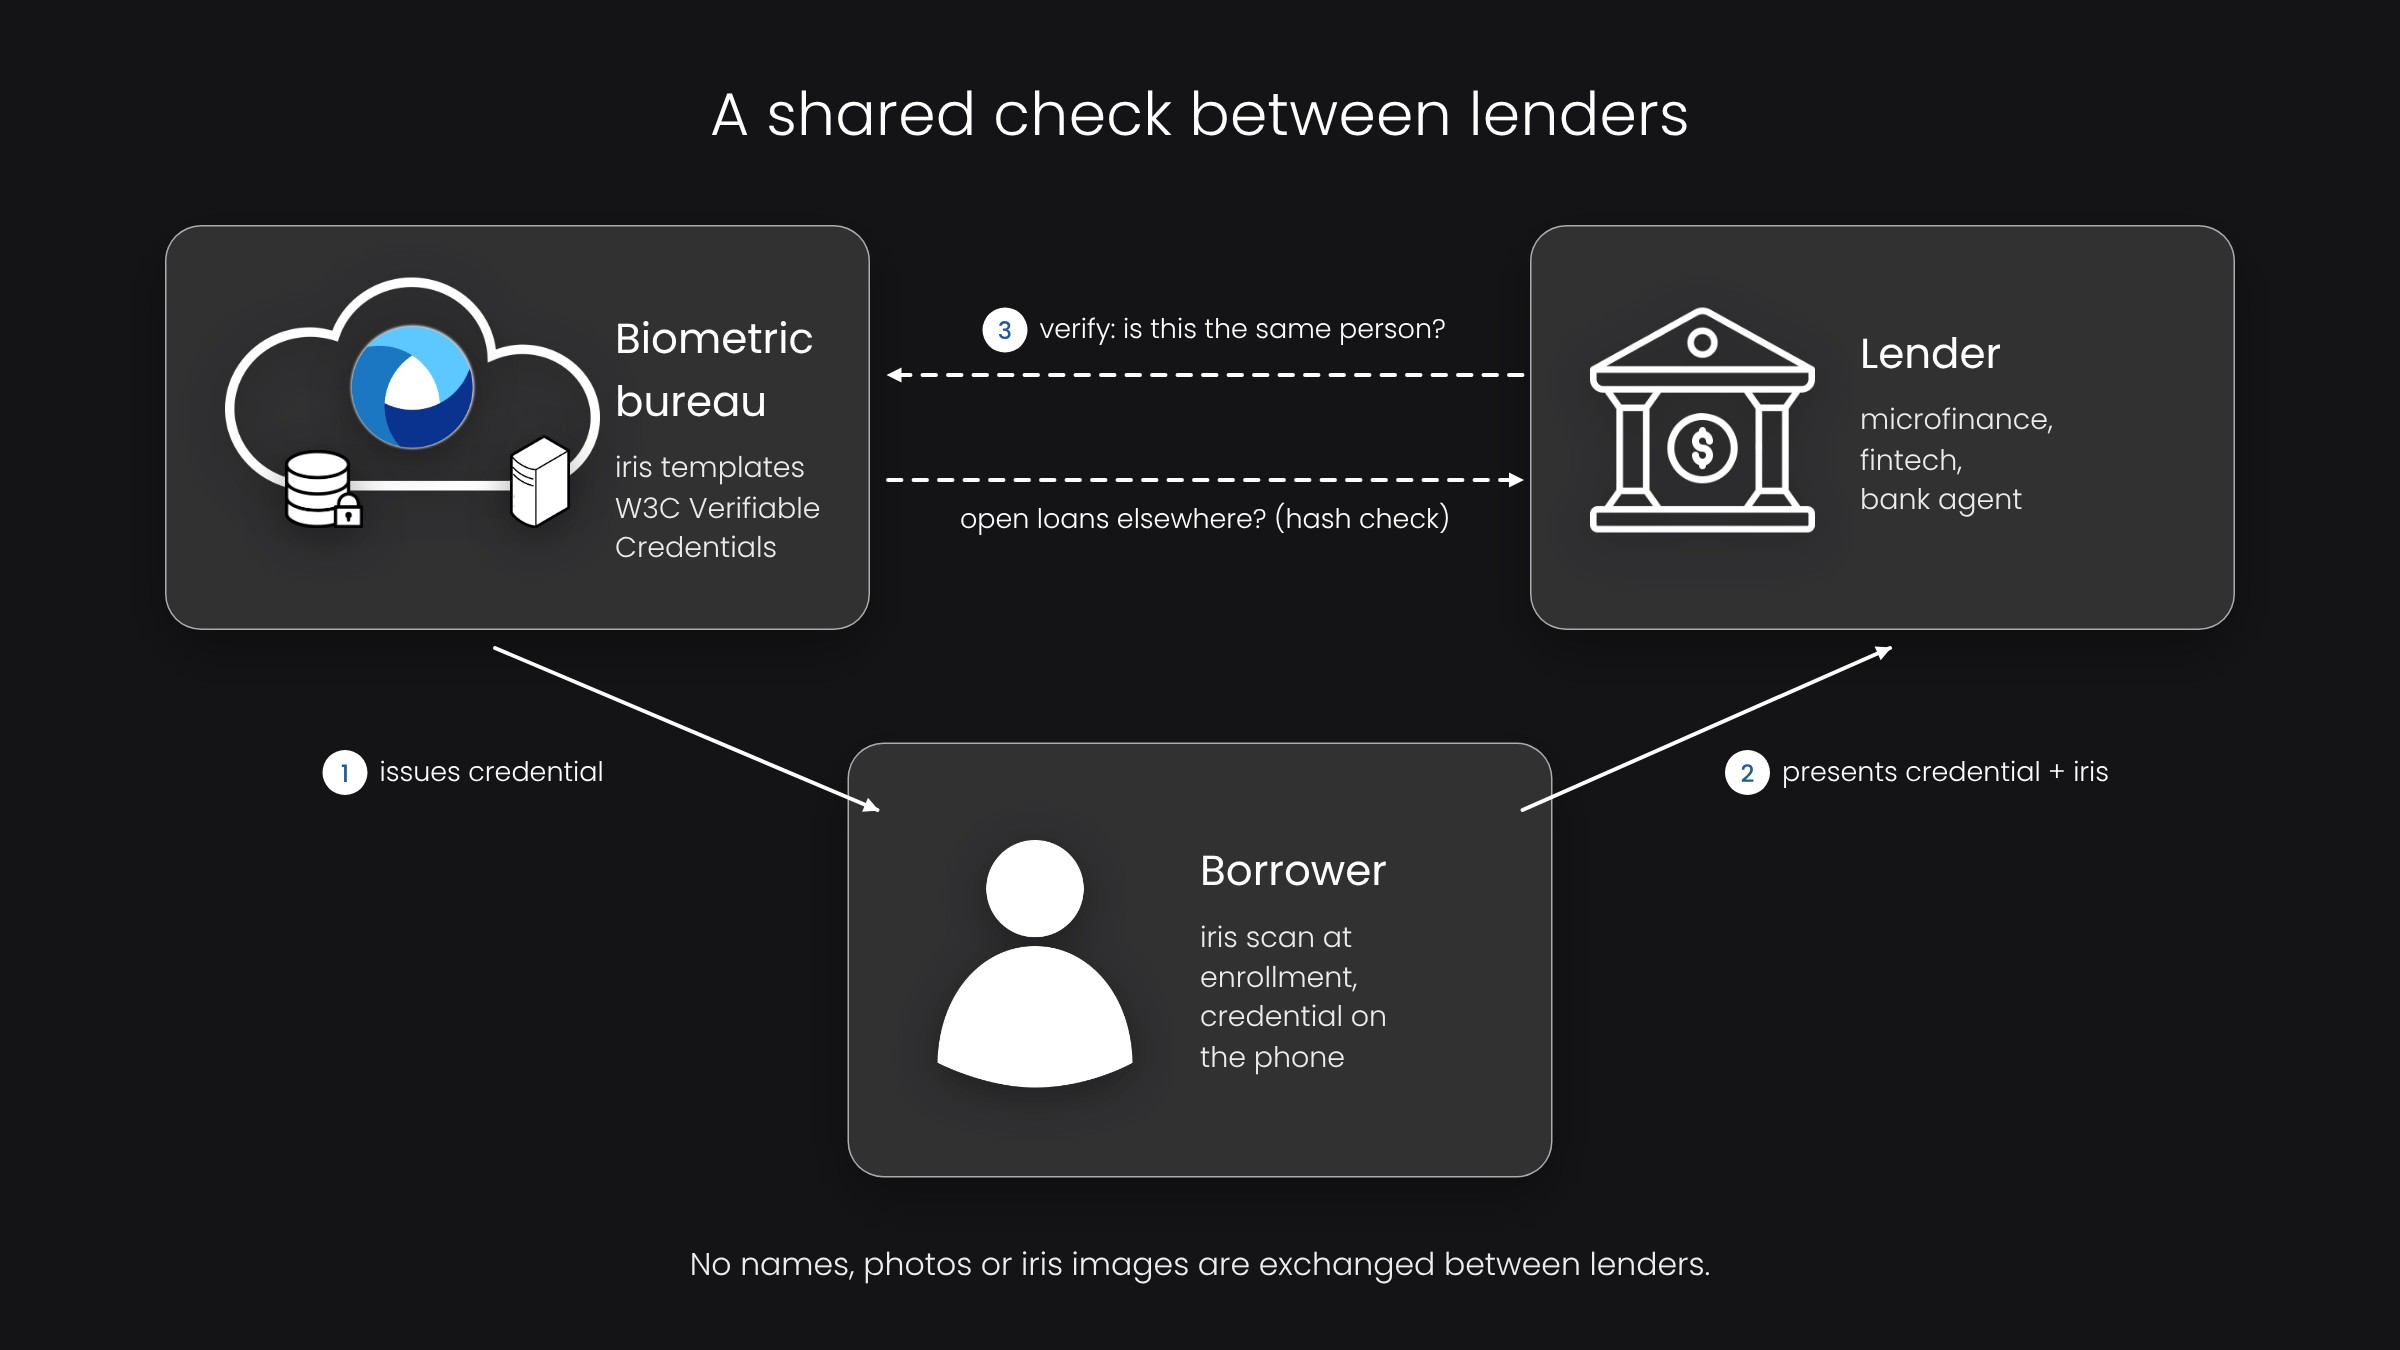
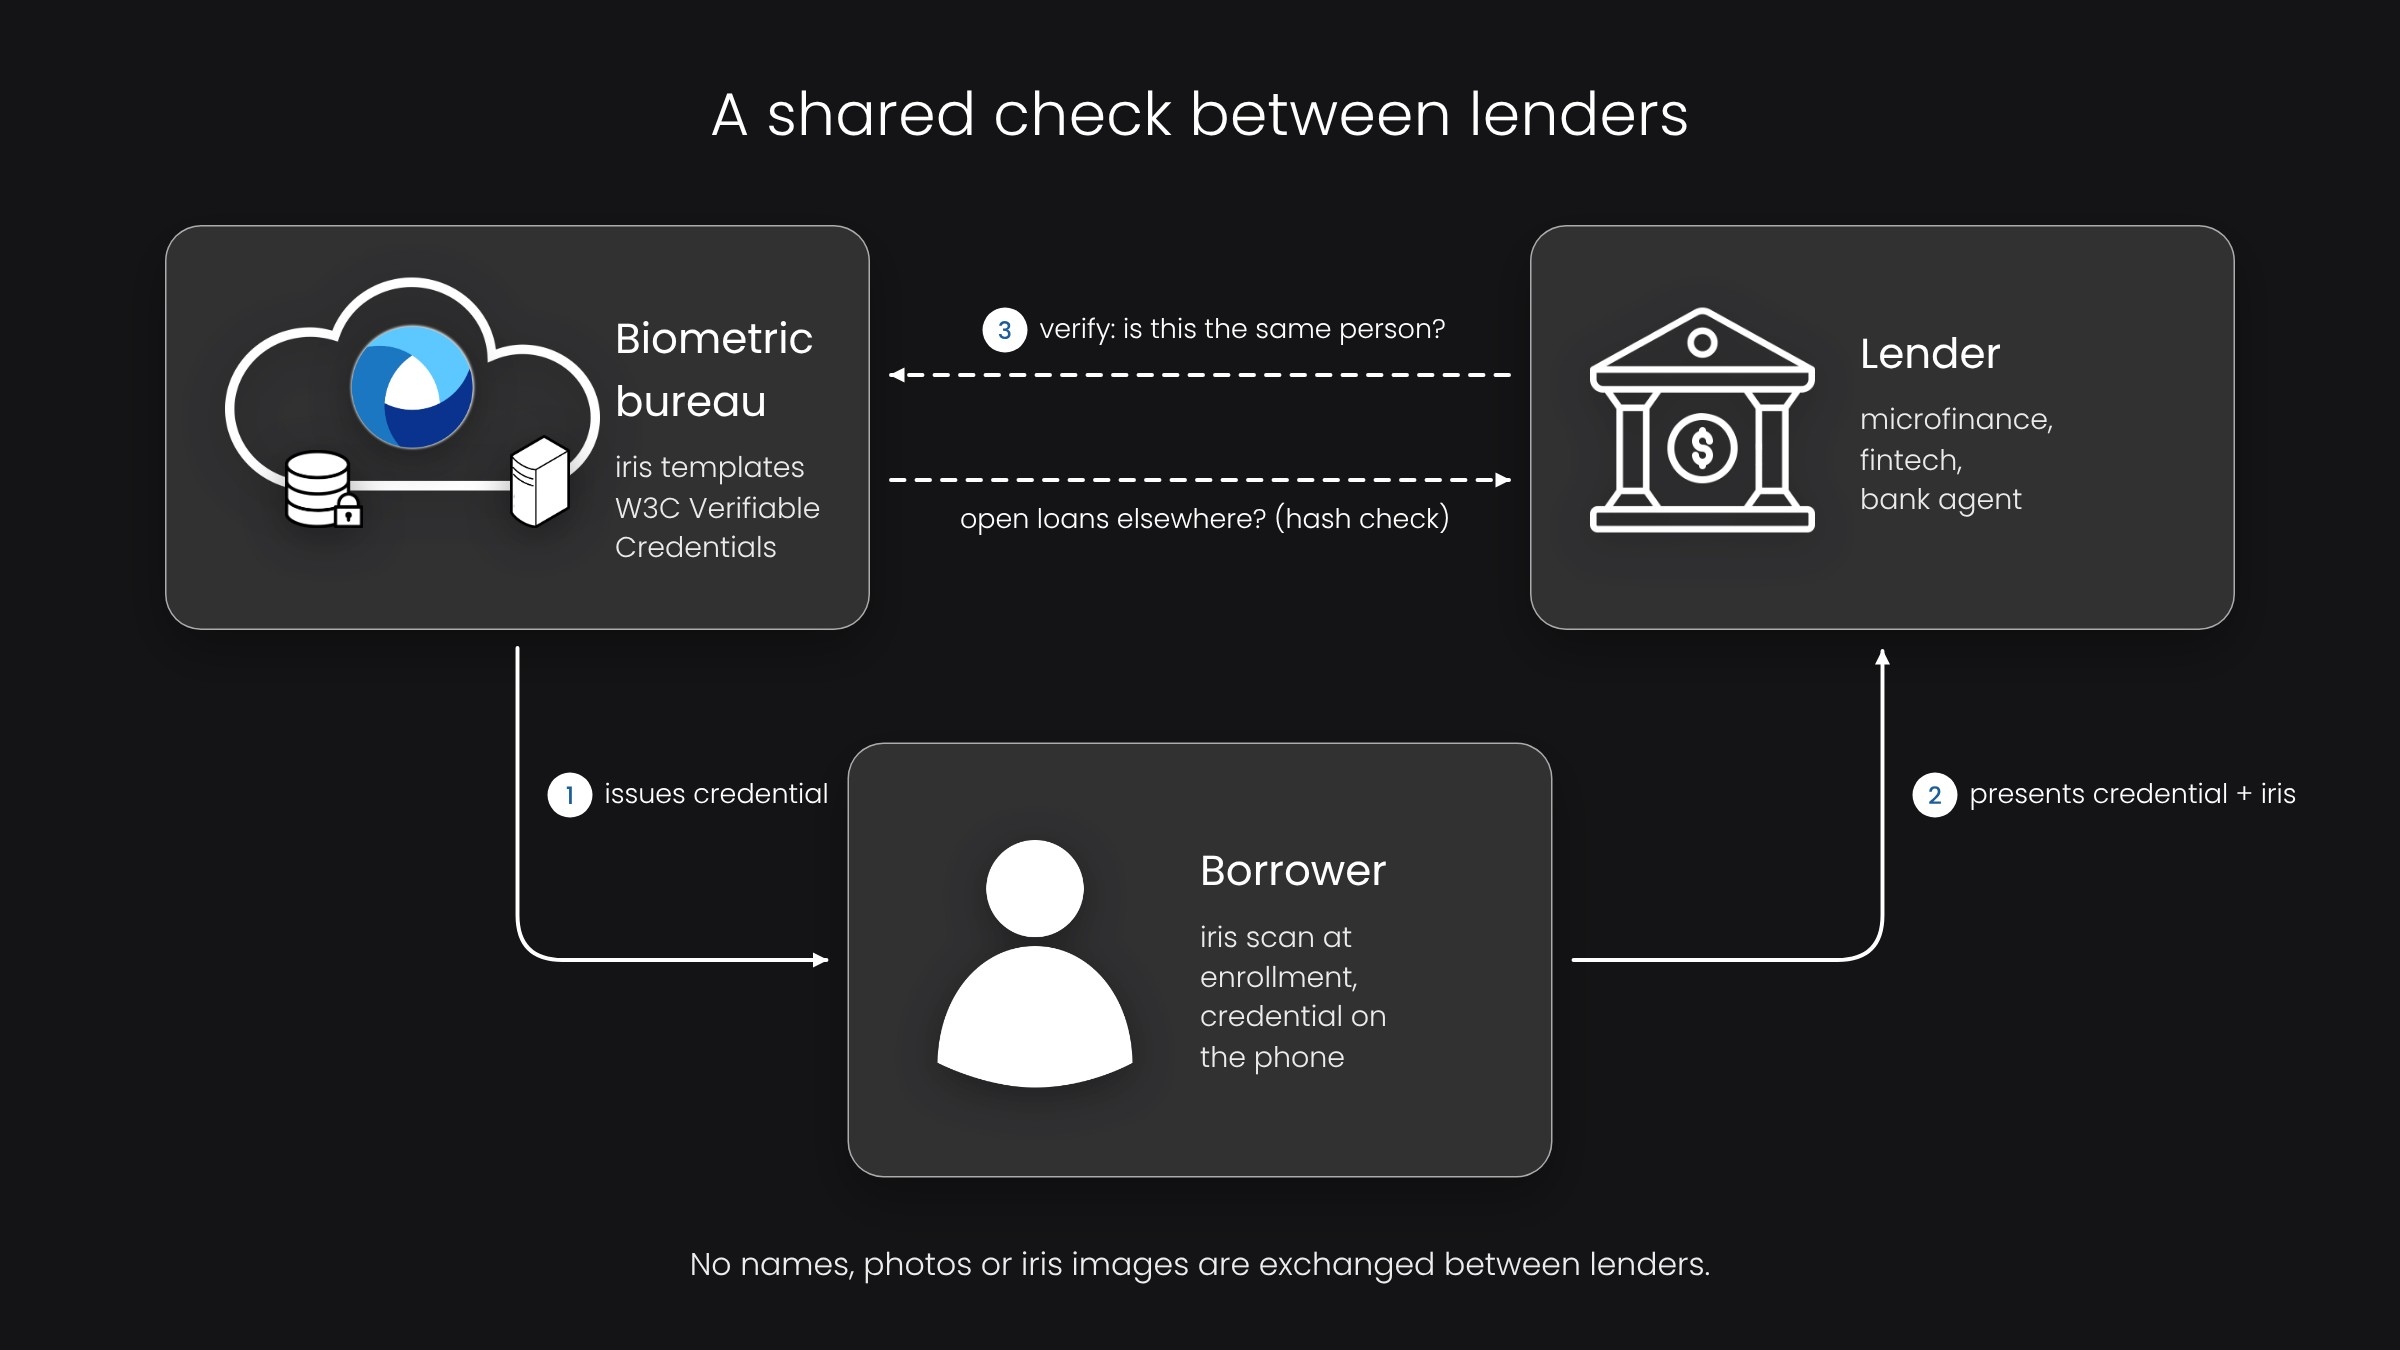
Fintech diagram: cleaner connectors

diff --git a/solutions/fintech.html b/solutions/fintech.html
@@ -20,7 +20,7 @@
 <meta property="og:title" content="Iris Verification and Duplicate Borrower Detection for Lenders | Iriscan">
 <meta property="og:description" content="Biometric onboarding and iris de-duplication for lenders, fintechs and agent networks: recognize repeat borrowers under any name and use the deterrent effect of biometrics.">
 <meta property="og:url" content="https://www.iriscan.com/solutions/fintech">
-<meta property="og:image" content="https://www.iriscan.com/assets/img/biometric-credit-bureau-flow.webp?v=6">
+<meta property="og:image" content="https://www.iriscan.com/assets/img/biometric-credit-bureau-flow.webp?v=7">
 <meta name="twitter:card" content="summary_large_image">
 </head>
 <body>
@@ -144,7 +144,7 @@
 <h2>Next: a shared check between lenders</h2>
 <p>Fraudsters move between lenders, and one lender's database cannot see that. When several lenders use the same identification, they can ask "does this person have an open loan elsewhere?" without exchanging names, photos or iris images. In the EU-funded <a href="/post/web3-biometric-bureau-verifiable-credit-history">INGRESS project</a> we built a prototype of it: a biometric bureau that issues verifiable credentials bound to a person, and a credit bureau that keeps loan records. It makes sense once several lenders in a market take part, and the template enrolled in your pilot is the same one it will use.</p>
 
-<figure class="sol-fig"><img src="/assets/img/biometric-credit-bureau-flow.webp?v=6" alt="Biometric credit bureau flow between the bureau, the borrower and the lender" loading="lazy"><figcaption>The next step: a shared bureau lets lenders check for open loans without sharing personal data.</figcaption></figure>
+<figure class="sol-fig"><img src="/assets/img/biometric-credit-bureau-flow.webp?v=7" alt="Biometric credit bureau flow between the bureau, the borrower and the lender" loading="lazy"><figcaption>The next step: a shared bureau lets lenders check for open loans without sharing personal data.</figcaption></figure>
 
 <aside class="cta">
 <h3>Losing money to repeat borrowers under new names?</h3>
